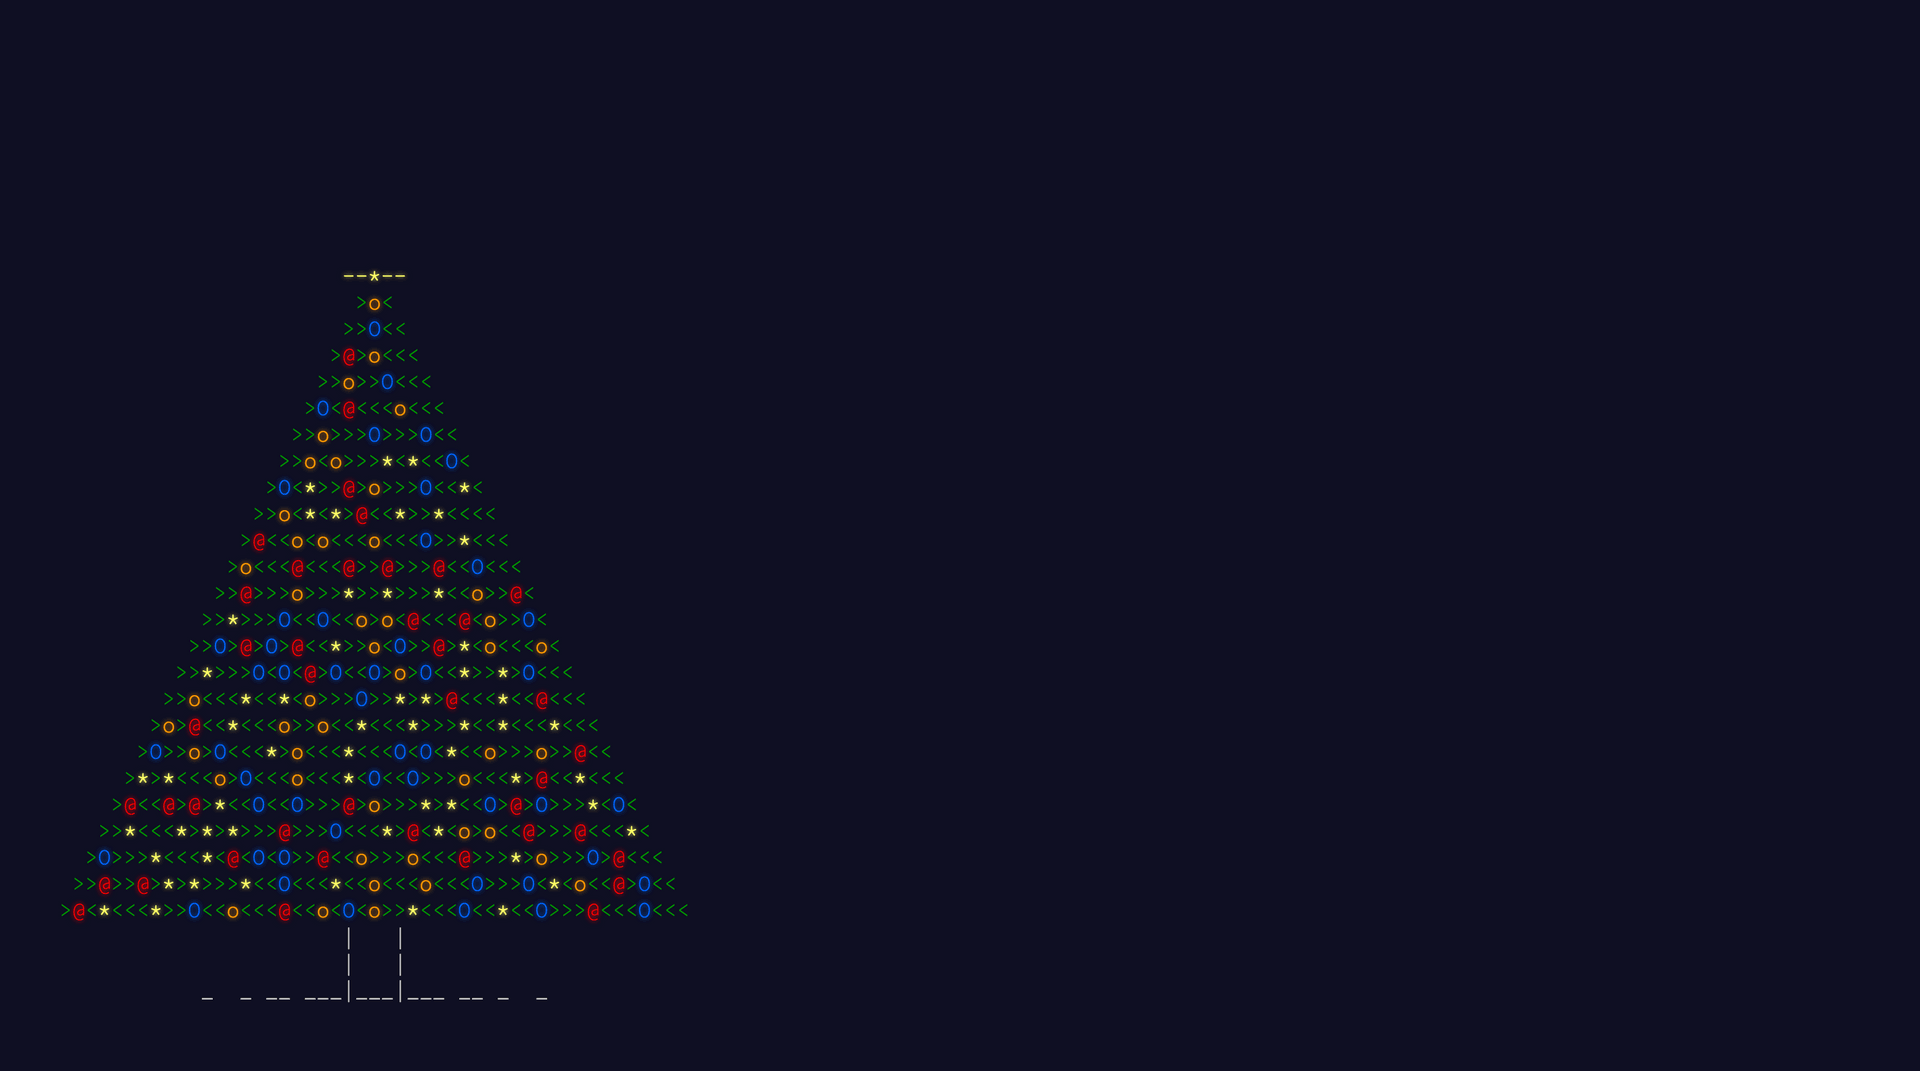
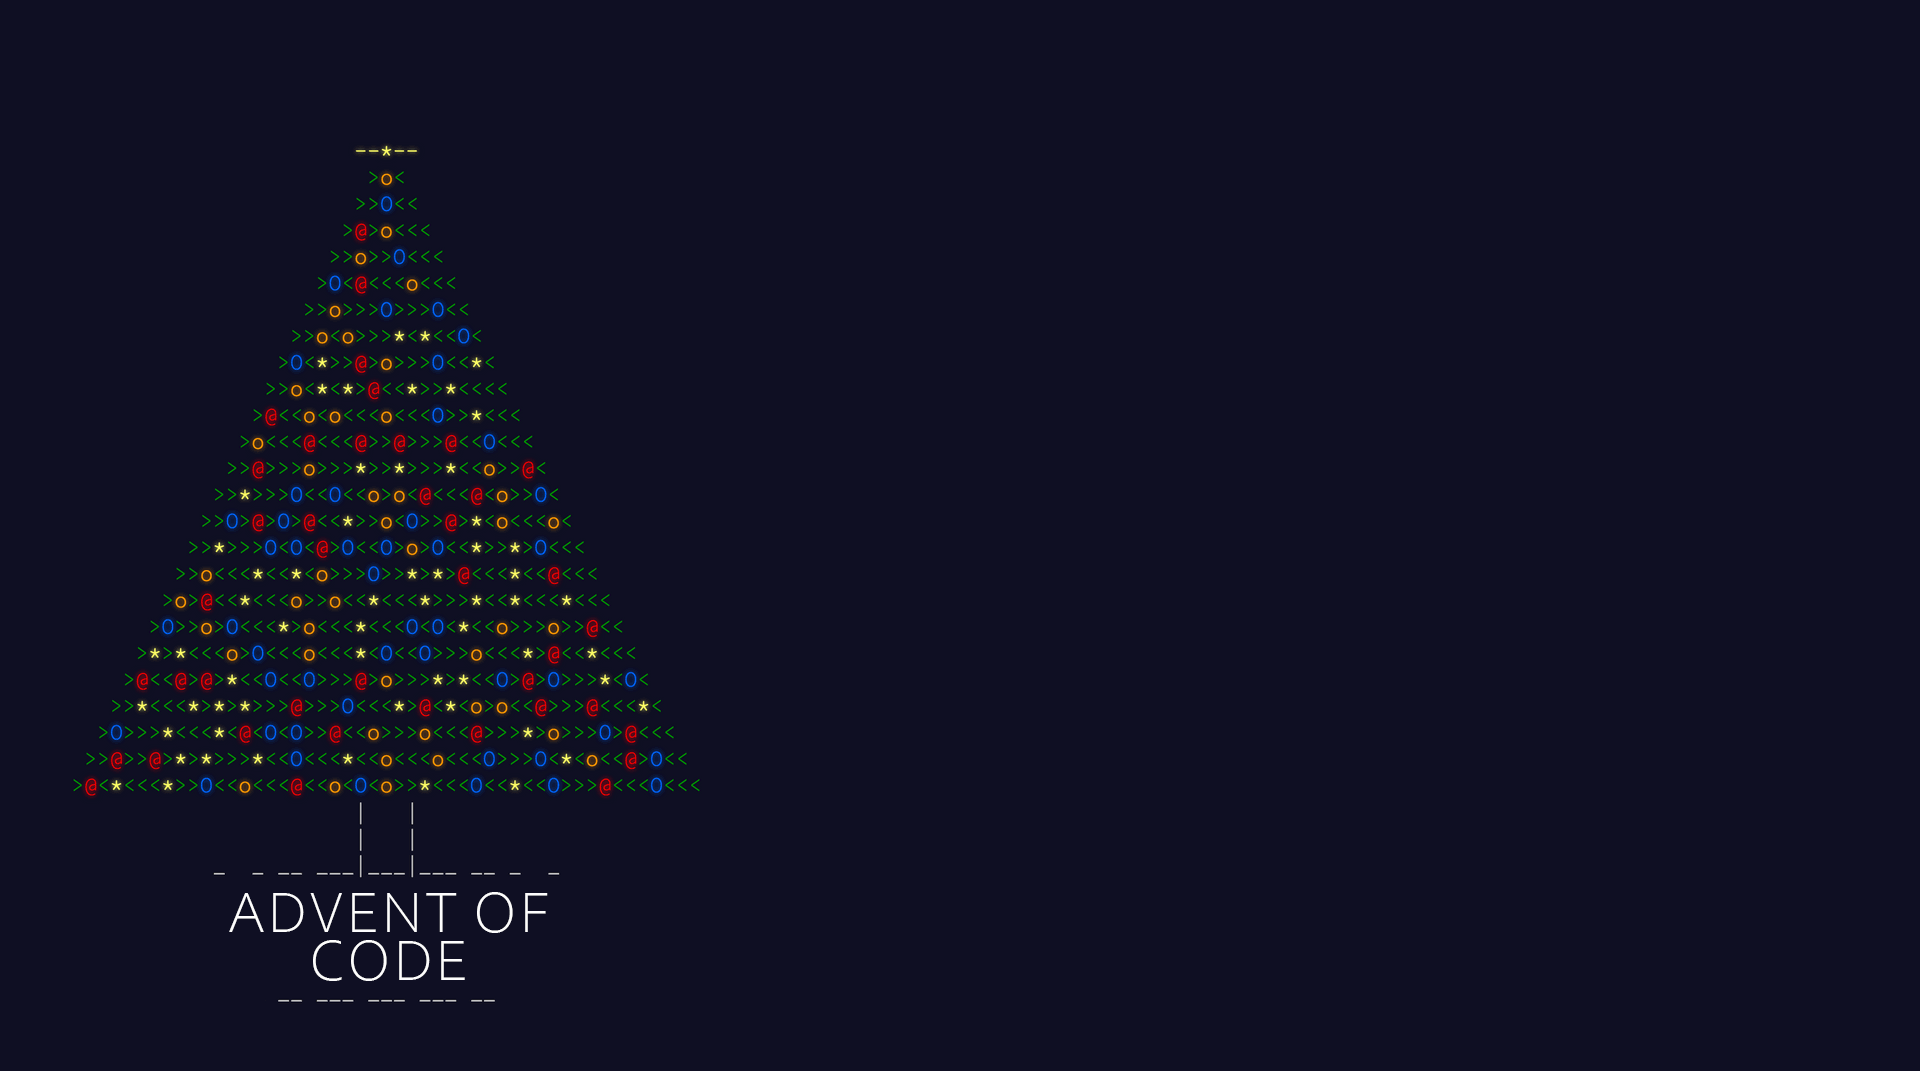
Misc tweaks
1 - Updated tree image
2 - Improved carousel sliding
3 - Attempted to make a more uniformed collab gird
4. Tweaked spacing in highlight section

Changed region(s): [[0.0312, 0.1232, 0.375, 0.9244]]

diff --git a/src/components/Contributors/Contributors.component.jsx b/src/components/Contributors/Contributors.component.jsx
@@ -6,39 +6,55 @@ import ContribCard from "./ContribCard.component";
 import data from "./contributors.json";
 
 const useStyles = makeStyles(theme => ({
-  contributorsContainer: {
-    backgroundColor: theme.palette.background.paper,
-    padding: theme.spacing(4, 0)
-  },
-  cardContainer: {
-    display: "flex",
-    flexWrap: "wrap",
-    justifyContent: "center"
-  }
+	contributorsContainer: {
+		backgroundColor: theme.palette.background.paper,
+		padding: theme.spacing(4, 0)
+	},
+	cardContainer: {
+		display: "flex",
+		flexWrap: "wrap",
+		justifyContent: "center",
+		margin: theme.spacing(4, 0),
+		marginLeft: "auto",
+		marginRight: "auto",
+		width: "95%",
+		[theme.breakpoints.up("sm")]: {
+			width: "80%"
+		},
+		[theme.breakpoints.up("md")]: {
+			width: "95%"
+		},
+		[theme.breakpoints.up("lg")]: {
+			width: "90%"
+		},
+		[theme.breakpoints.up("xl")]: {
+			width: "70%"
+		}
+	}
 }));
 
 function Contributors(props) {
-  const classes = useStyles();
+	const classes = useStyles();
 
-  return (
-    <>
-      <div className={classes.contributorsContainer}>
-        <Typography
-          align="center"
-          color="textPrimary"
-          variant="h3"
-          gutterBottom
-        >
-          Contributors
-        </Typography>
-        <div className={classes.cardContainer}>
-          {data.map(person => (
-            <ContribCard key={person.name} person={person} />
-          ))}
-        </div>
-      </div>
-    </>
-  );
+	return (
+		<>
+			<div className={classes.contributorsContainer}>
+				<Typography
+					align="center"
+					color="textPrimary"
+					variant="h3"
+					gutterBottom
+				>
+					Contributors
+				</Typography>
+				<div className={classes.cardContainer}>
+					{data.map(person => (
+						<ContribCard key={person.name} person={person} />
+					))}
+				</div>
+			</div>
+		</>
+	);
 }
 
 export default React.memo(Contributors);

diff --git a/src/components/Carousel/Carousel.component.jsx b/src/components/Carousel/Carousel.component.jsx
@@ -18,12 +18,12 @@ function CarouselComponent({ data }) {
 		desktop: {
 			breakpoint: { max: 3000, min: 1024 },
 			items: 4,
-			slidesToSlide: 4 // optional, default to 1.
+			slidesToSlide: 1 // optional, default to 1.
 		},
 		tablet: {
 			breakpoint: { max: 1024, min: 464 },
 			items: 2,
-			slidesToSlide: 2 // optional, default to 1.
+			slidesToSlide: 1 // optional, default to 1.
 		},
 		mobile: {
 			breakpoint: { max: 464, min: 0 },

diff --git a/src/components/HighlightsSection/Highlights.styles.js b/src/components/HighlightsSection/Highlights.styles.js
@@ -5,16 +5,16 @@ import Radio from "@material-ui/core/Radio";
 
 export const useStyles = makeStyles(theme => ({
 	title: {
-		padding: "50px 0 0 0",
+		padding: "50px 0 20px 0",
 		textAlign: "center"
 	},
 	radio: {
 		display: "flex",
-		justifyContent: "center",
-		padding: "10px 0"
+		justifyContent: "center"
 	},
 	solutionsContainer: {
-		marginBottom: "50px"
+		marginTop: "50px",
+		marginBottom: "80px"
 	}
 }));
 
